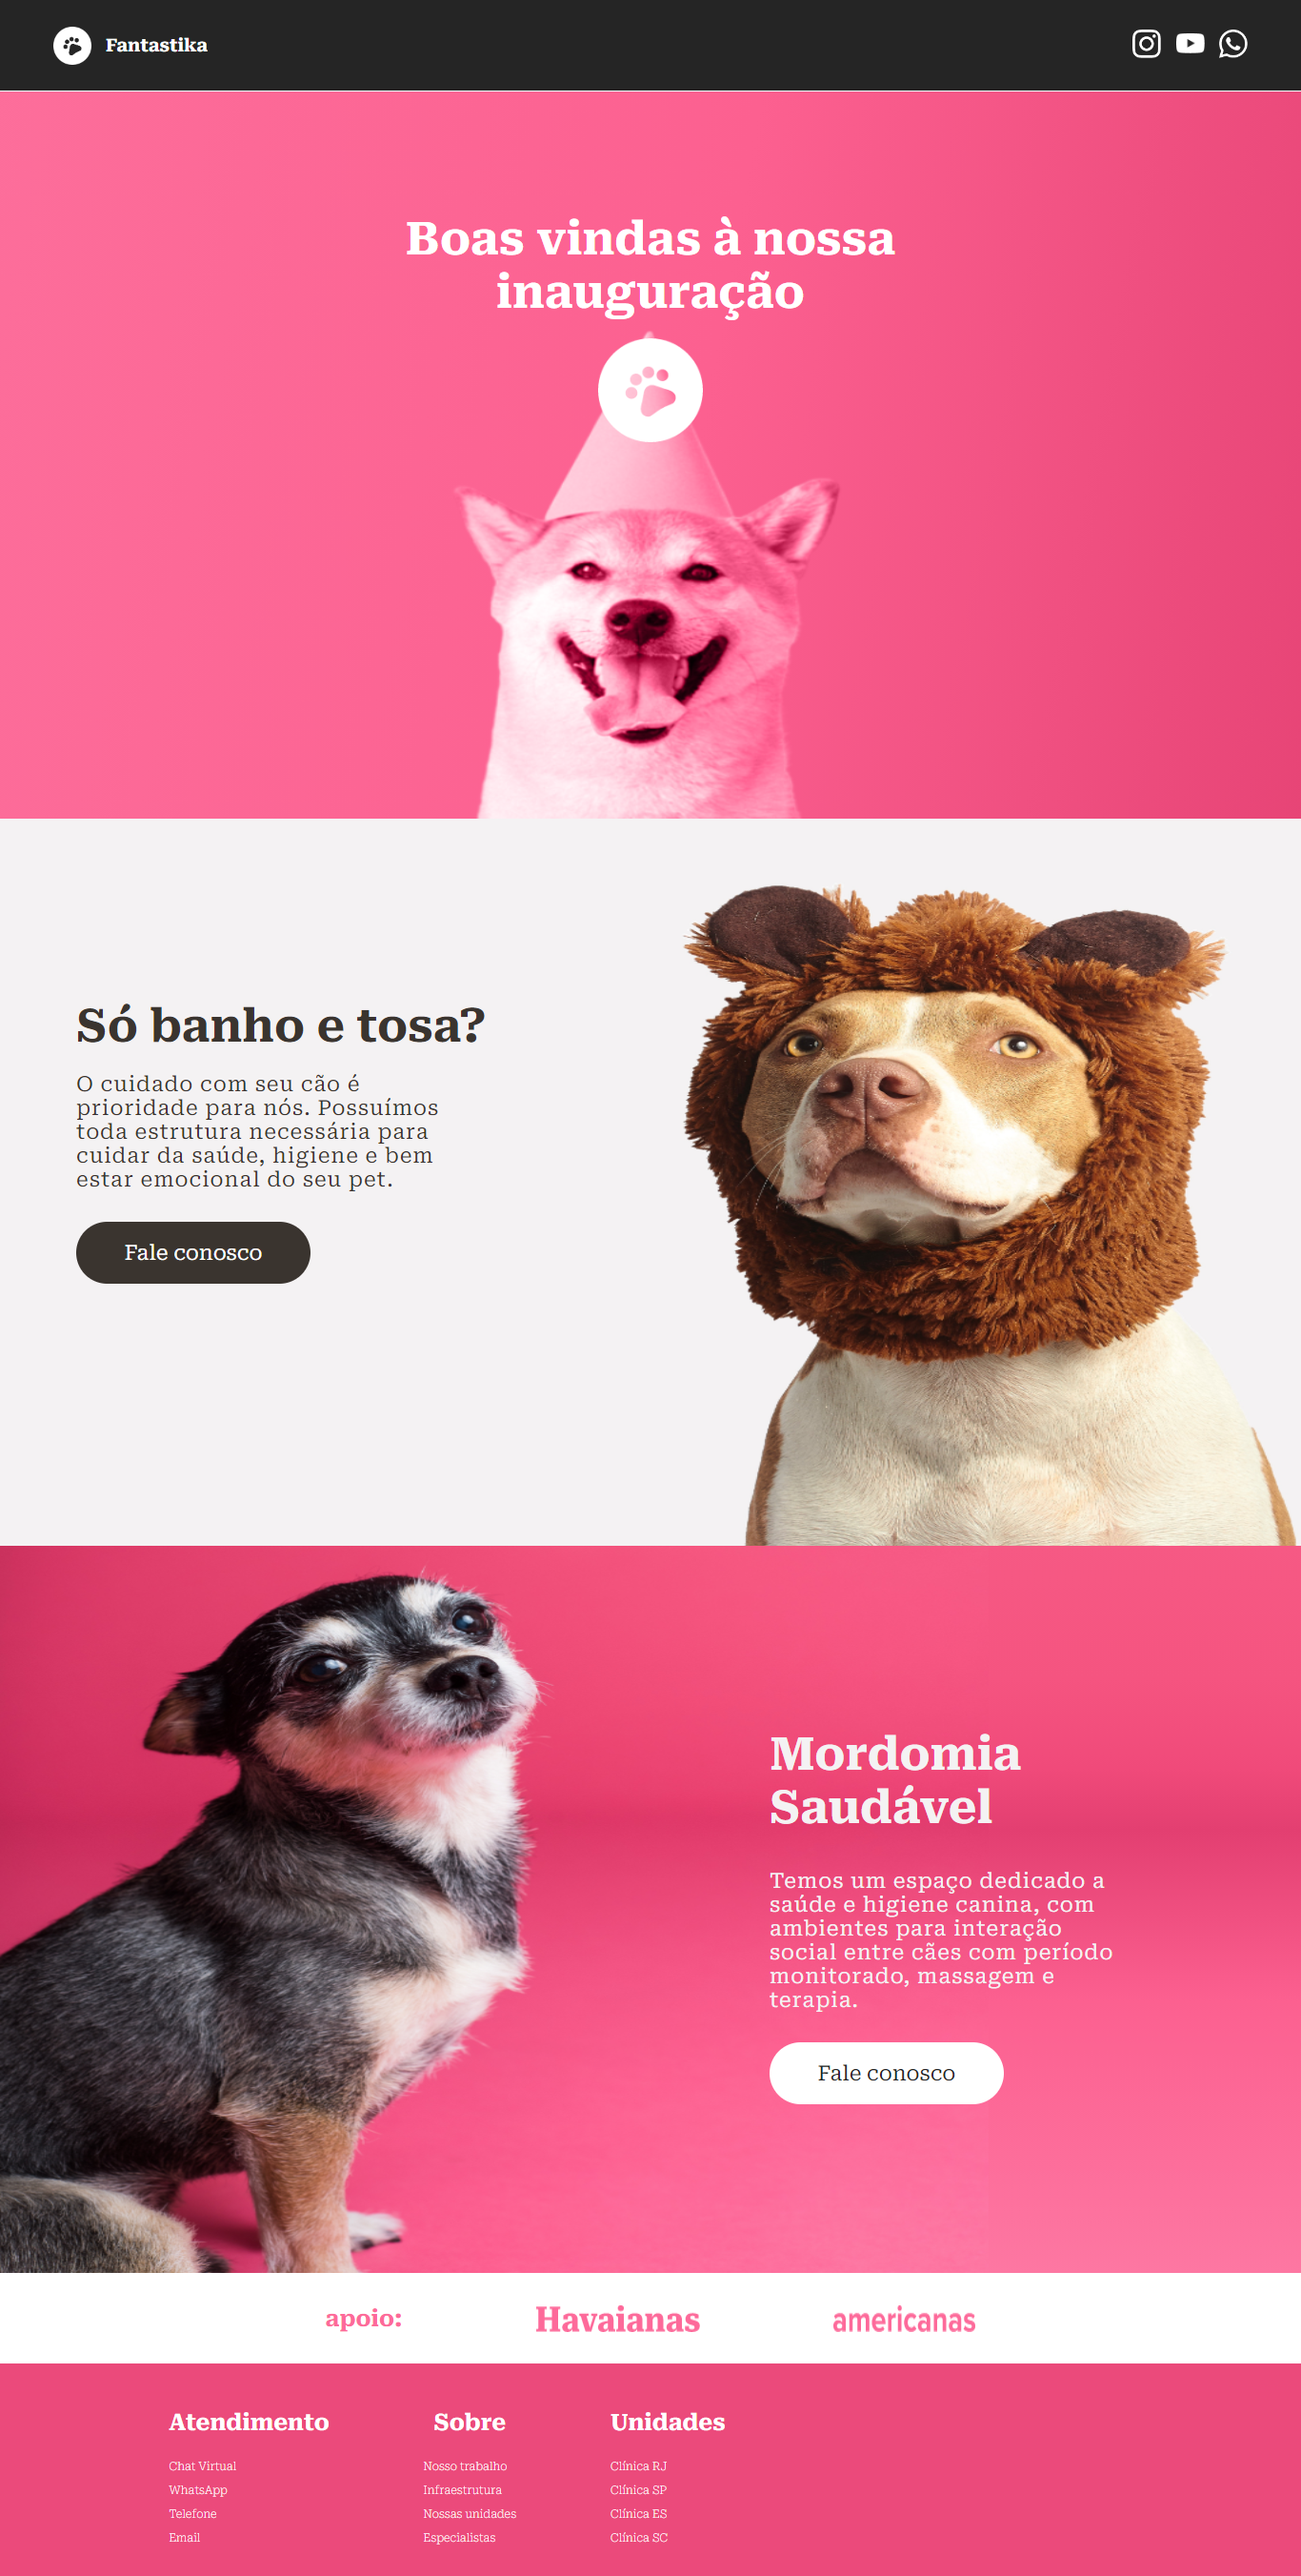
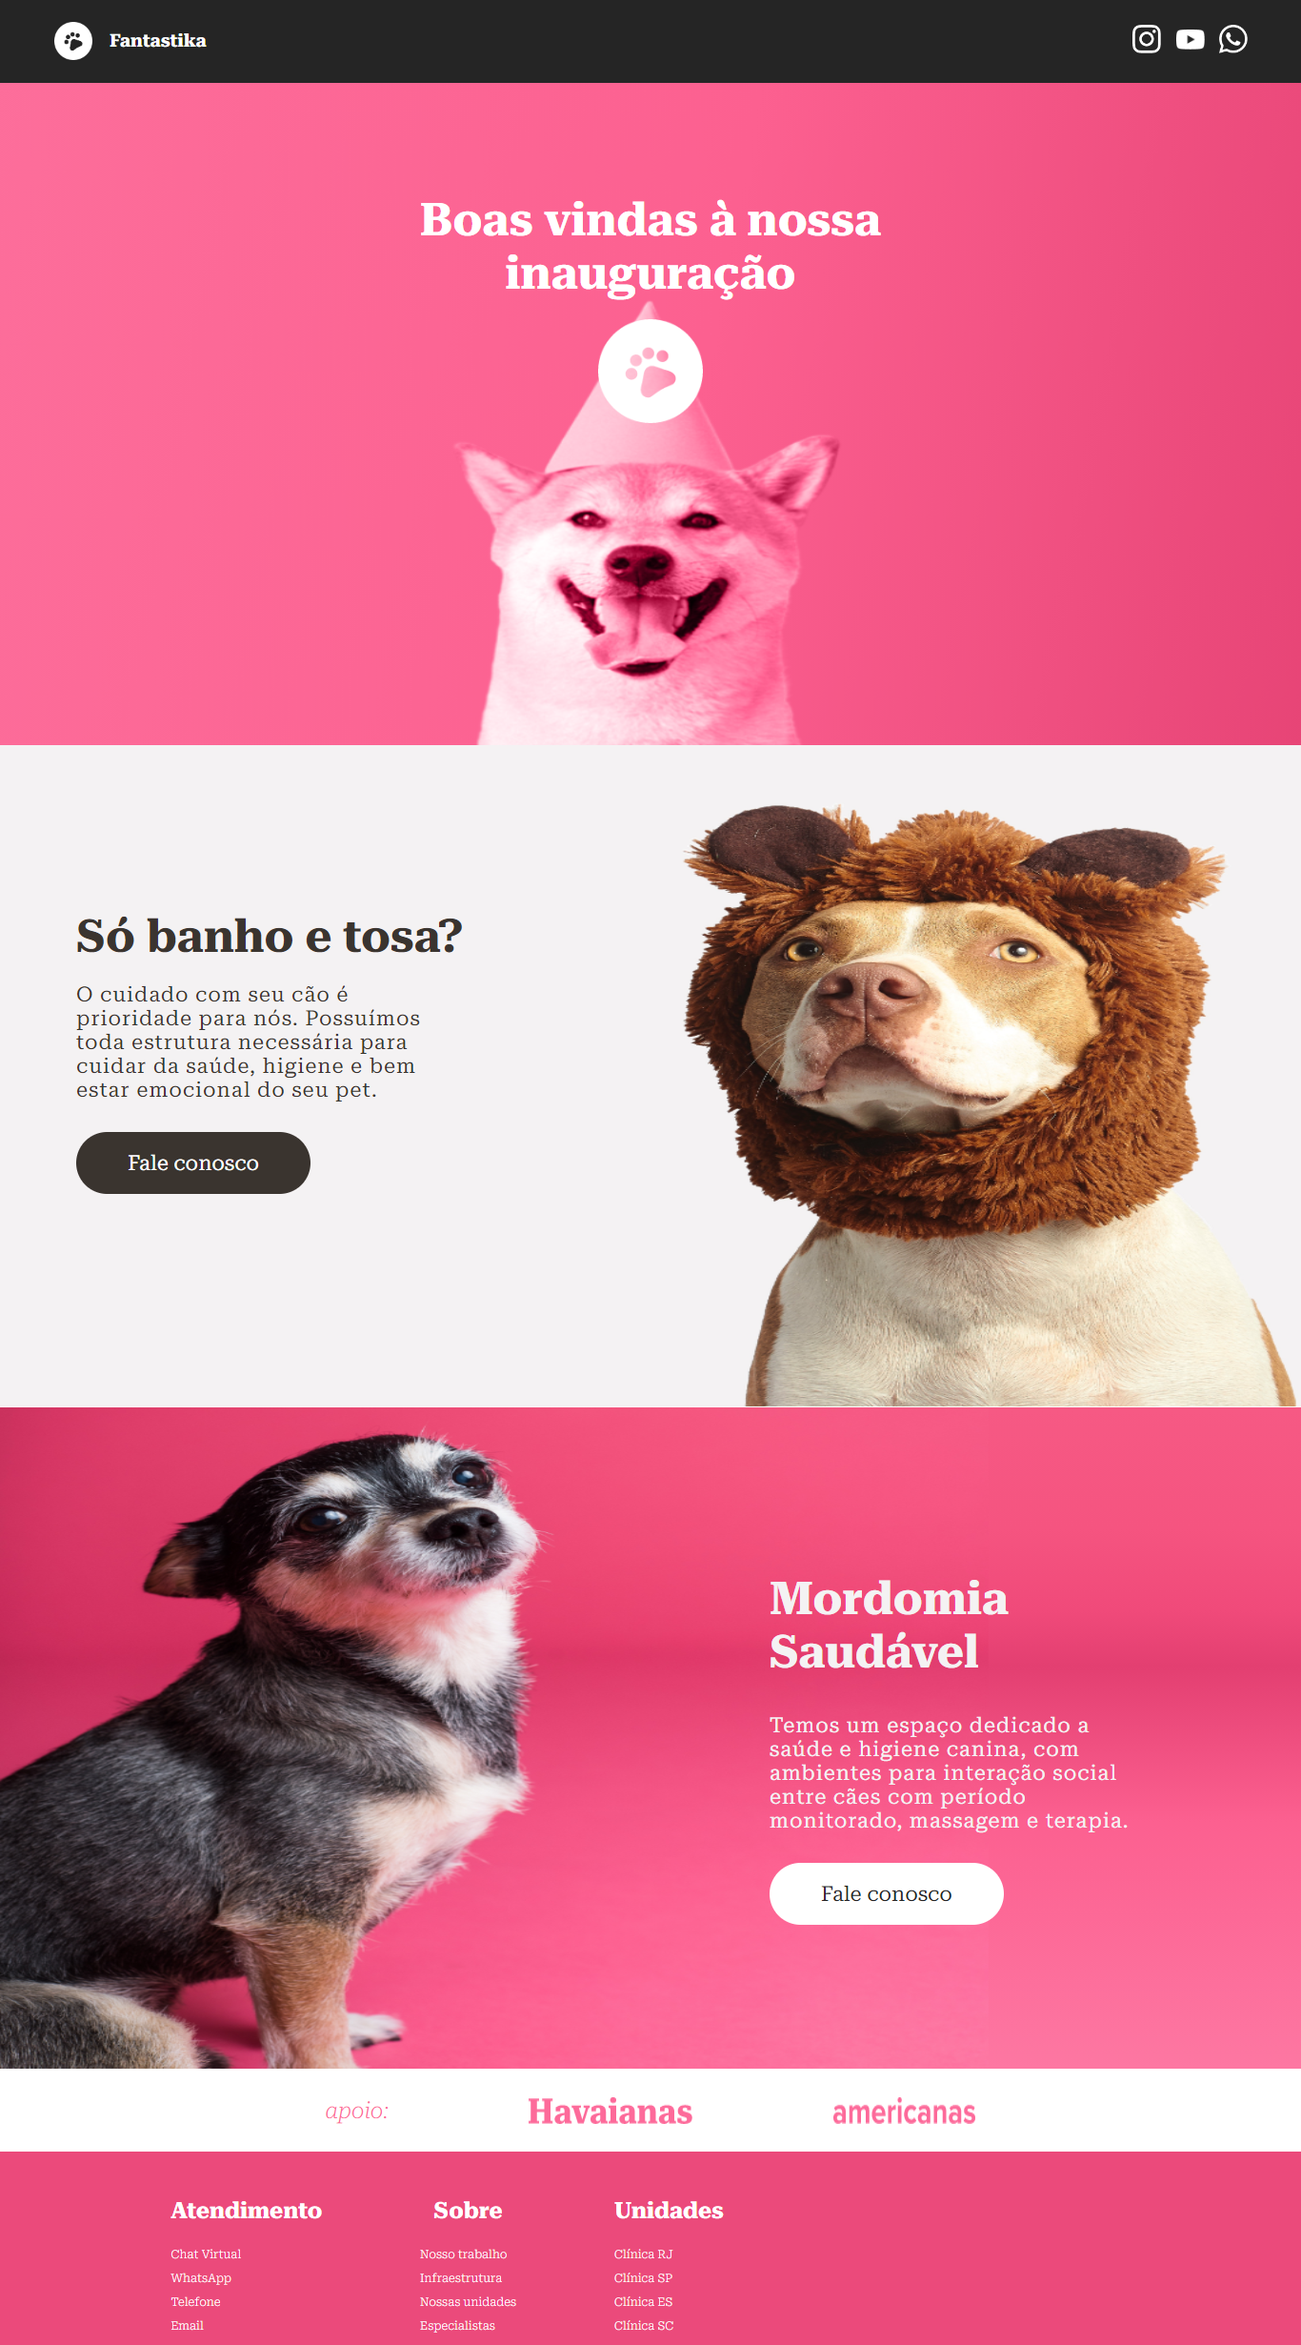
Main

diff --git a/style.css b/style.css
@@ -1,4 +1,4 @@
-@import url('https://fonts.googleapis.com/css2?family=Roboto+Serif:wght@100;200;300;400;500;600;700&display=swap');
+@import url('https://fonts.googleapis.com/css2?family=Roboto+Serif:ital,opsz,wght@0,8..144,200;0,8..144,300;0,8..144,400;0,8..144,500;0,8..144,600;0,8..144,700;1,8..144,100;1,8..144,200;1,8..144,300&display=swap');
 *{
     margin: 0;
     padding: 0;
@@ -136,6 +136,9 @@ button:hover{
 .Quarta h3{
     color: #FD6A9A;
     font-size: 24px;
+    font-weight:200;
+    font-family: "Roboto Serif";
+    font-style:italic;
 }
 footer{
     background-color: #EB4A7B;
